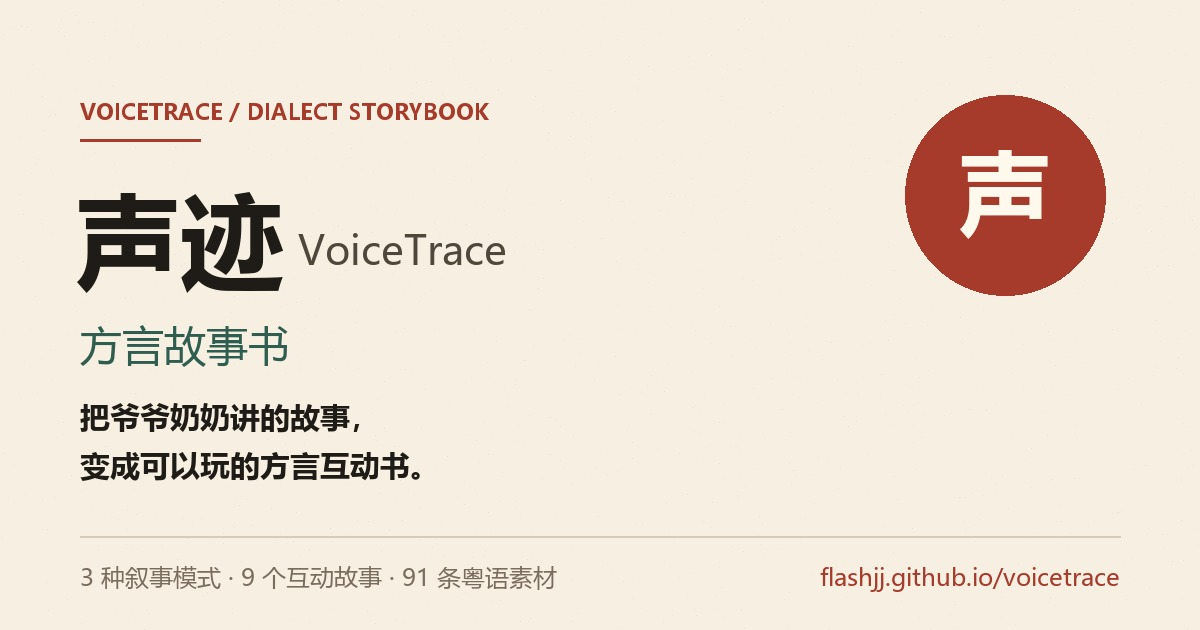
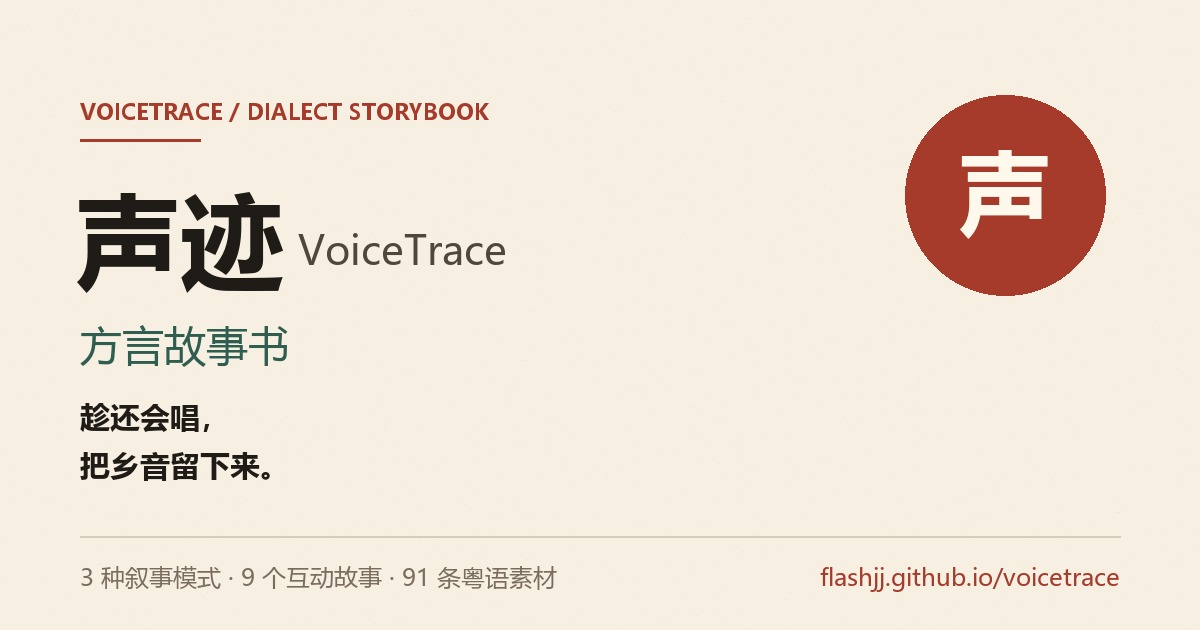
feat: sharpen hero copy and add animated voice waveform
- Replace the hero headline with a more urgent line about keeping the
  local voice while elders can still sing
- Add a looping waveform card that lights up the Cantonese rhyme
  character by character, with a plain-Mandarin line
- Fix image height attribute overriding aspect-ratio on the hero

Changed region(s): [[0.0617, 0.6333, 0.3392, 0.7841]]

diff --git a/web/components/VoiceMoment.jsx b/web/components/VoiceMoment.jsx
@@ -1,0 +1,87 @@
+"use client";
+
+import { useEffect, useState } from "react";
+
+const LINE = "月光光，照地堂。年卅晚，摘槟榔。";
+const MANDARIN = "月光洒在天井里，除夕夜摘槟榔。";
+
+const CHARS = Array.from(LINE);
+
+// 固定波形，避免服务端与客户端渲染不一致
+const BARS = Array.from({ length: 56 }, (_, index) => {
+  const value =
+    Math.sin(index * 0.72) * 0.42 +
+    Math.sin(index * 0.21) * 0.3 +
+    Math.sin(index * 1.7) * 0.12 +
+    0.58;
+  return Math.round(Math.min(1, Math.max(0.16, value)) * 100);
+});
+
+export default function VoiceMoment() {
+  const [reduceMotion, setReduceMotion] = useState(false);
+  const [activeIndex, setActiveIndex] = useState(-1);
+
+  useEffect(() => {
+    const query = window.matchMedia("(prefers-reduced-motion: reduce)");
+    const apply = () => setReduceMotion(query.matches);
+    apply();
+    query.addEventListener("change", apply);
+    return () => query.removeEventListener("change", apply);
+  }, []);
+
+  useEffect(() => {
+    if (reduceMotion) {
+      setActiveIndex(CHARS.length - 1);
+      return undefined;
+    }
+
+    let timer;
+    let step = -1;
+
+    const tick = () => {
+      step += 1;
+      if (step >= CHARS.length) {
+        step = -1;
+        setActiveIndex(-1);
+        timer = window.setTimeout(tick, 1100);
+        return;
+      }
+      setActiveIndex(step);
+      timer = window.setTimeout(tick, 240);
+    };
+
+    timer = window.setTimeout(tick, 500);
+    return () => window.clearTimeout(timer);
+  }, [reduceMotion]);
+
+  const progress = (activeIndex + 1) / CHARS.length;
+
+  return (
+    <div className="voice-moment">
+      <div className="voice-moment-head">
+        <span>粤语 · 西关</span>
+        <span className="voice-moment-note">语音示例</span>
+      </div>
+      <p className="voice-moment-yue" aria-label={`粤语童谣：${LINE}`}>
+        {CHARS.map((char, index) => (
+          <span
+            key={`${char}-${index}`}
+            className={index <= activeIndex ? "is-lit" : ""}
+          >
+            {char}
+          </span>
+        ))}
+      </p>
+      <p className="voice-moment-zh">{MANDARIN}</p>
+      <div className="voice-bars" aria-hidden="true">
+        {BARS.map((height, index) => (
+          <span
+            key={index}
+            className={index / BARS.length < progress ? "is-lit" : ""}
+            style={{ height: `${height}%` }}
+          />
+        ))}
+      </div>
+    </div>
+  );
+}

diff --git a/web/app/globals.css b/web/app/globals.css
@@ -409,6 +409,7 @@ button {
 
 .hero-image {
   width: 100%;
+  height: auto;
   aspect-ratio: 4 / 5;
   object-fit: cover;
   border-radius: 220px 220px var(--radius) var(--radius);
@@ -436,6 +437,80 @@ button {
   letter-spacing: 0.06em;
   color: var(--ink);
   margin-bottom: 2px;
+}
+
+.voice-moment {
+  position: absolute;
+  left: -16px;
+  bottom: 24px;
+  width: min(330px, calc(100% - 32px));
+  padding: 13px 16px 12px;
+  border: 1px solid var(--line);
+  background: rgba(251, 247, 238, 0.96);
+  box-shadow: 0 18px 40px rgba(54, 38, 22, 0.16);
+  backdrop-filter: blur(6px);
+}
+
+.voice-moment-head {
+  display: flex;
+  align-items: center;
+  justify-content: space-between;
+  gap: 8px;
+  margin-bottom: 8px;
+  color: var(--ink-muted);
+  font-size: 11px;
+  letter-spacing: 0.1em;
+}
+
+.voice-moment-note {
+  padding: 1px 8px;
+  border: 1px solid var(--line);
+  border-radius: 999px;
+  font-size: 10px;
+  letter-spacing: 0.04em;
+}
+
+.voice-moment-yue {
+  margin: 0;
+  font-family: var(--serif);
+  font-size: 17px;
+  line-height: 1.75;
+  letter-spacing: 0.04em;
+  color: var(--ink-muted);
+}
+
+.voice-moment-yue span {
+  transition: color 0.24s ease;
+}
+
+.voice-moment-yue span.is-lit {
+  color: var(--cinnabar);
+}
+
+.voice-moment-zh {
+  margin: 3px 0 10px;
+  color: var(--ink-muted);
+  font-size: 12px;
+  line-height: 1.6;
+}
+
+.voice-bars {
+  display: flex;
+  align-items: flex-end;
+  gap: 2px;
+  height: 34px;
+}
+
+.voice-bars span {
+  flex: 1;
+  min-width: 1px;
+  background: rgba(47, 93, 80, 0.2);
+  border-radius: 1px;
+  transition: background 0.24s ease;
+}
+
+.voice-bars span.is-lit {
+  background: var(--cinnabar);
 }
 
 .seal {
@@ -1588,7 +1663,11 @@ button {
   }
 
   .hero {
-    padding: 40px 0 56px;
+    padding: 24px 0 48px;
+  }
+
+  .hero-image {
+    aspect-ratio: 1 / 1;
   }
 
   .hero-title {
@@ -1597,12 +1676,41 @@ button {
 
   .hero-lede {
     font-size: 17px;
+    margin-bottom: 22px;
   }
 
   .hero-caption {
     left: -6px;
     bottom: 14px;
     padding: 10px 14px;
+  }
+
+  .voice-moment {
+    left: 0;
+    right: 0;
+    bottom: 12px;
+    width: auto;
+    margin: 0 12px;
+    padding: 9px 12px 8px;
+    box-shadow: 0 12px 28px rgba(54, 38, 22, 0.14);
+  }
+
+  .voice-moment-head {
+    margin-bottom: 5px;
+  }
+
+  .voice-moment-yue {
+    font-size: 14px;
+    line-height: 1.6;
+  }
+
+  .voice-moment-zh {
+    margin: 2px 0 6px;
+    font-size: 11px;
+  }
+
+  .voice-bars {
+    height: 20px;
   }
 
   .seal {

diff --git a/web/app/page.js b/web/app/page.js
@@ -1,6 +1,7 @@
 import Link from "next/link";
 import { featuredStories, stories, storyModes, heroImage, whyImage } from "../lib/stories";
 import StoryCard from "../components/StoryCard";
+import VoiceMoment from "../components/VoiceMoment";
 
 export default function HomePage() {
   return (
@@ -9,13 +10,14 @@ export default function HomePage() {
         <div className="hero-copy">
           <span className="eyebrow fade-in">方言故事书 · 第一季</span>
           <h1 className="hero-title fade-in-delay">
-            把阿婆讲的故事，
+            趁还会唱，
             <br />
-            留在<em>声音</em>里。
+            把乡音<em>留下来</em>。
           </h1>
           <p className="hero-lede fade-in-delay-2">
-            声迹把一段方言录音，变成一本可以点、可以听、可以分享的互动故事书。
-            原声是主角，AI 只负责让你听懂它。
+            很多家庭都有一把这样的声音：会唱童谣，会讲旧事，却只响在饭桌上。
+            声迹把它做成可以点、可以听、可以分享的互动故事书——原声是主角，
+            AI 只负责让你听懂它。
           </p>
           <div className="hero-actions fade-in-delay-2">
             <Link className="btn btn-primary" href="/stories/moonlight">
@@ -38,10 +40,7 @@ export default function HomePage() {
             decoding="async"
           />
           <div className="seal">留住<br />把声</div>
-          <div className="hero-caption">
-            <strong>广州 · 西关</strong>
-            粤语 · 骑楼 · 一碗茶的时间
-          </div>
+          <VoiceMoment />
         </div>
       </section>
 

diff --git a/web/app/layout.js b/web/app/layout.js
@@ -4,7 +4,8 @@ import SiteFooter from "../components/SiteFooter";
 
 const siteUrl = process.env.NEXT_PUBLIC_SITE_URL || "http://localhost:3000";
 const basePath = process.env.NEXT_PUBLIC_BASE_PATH || "";
-const description = "把爷爷奶奶讲的故事，变成可以玩的方言互动书。";
+const description =
+  "趁还会唱，把乡音留下来。声迹把粤语童谣、传说和家人的口述，做成可以点、可以听、可以分享的互动故事书。";
 
 export const metadata = {
   metadataBase: new URL(siteUrl),

diff --git a/README.md b/README.md
@@ -85,7 +85,7 @@ npm run dev
 
 ### 主攻：声迹 · 方言故事书（游戏娱乐，可兼报学习生活）
 
-- **一句话**：把爷爷奶奶讲的故事，变成可以玩的方言互动书；同一批素材，三种讲法。
+- **一句话**：趁还会唱，把乡音留下来；同一批素材，三种讲法。
 - **为什么选它**：你暂时没有 B 端用户资源，但可以用公开资料库 + 家人/朋友的方言录音，做出 9 个互动故事；情绪价值强，容易命中“乐在其中奖/造物故事奖”，也适合官方传播。
 - **三种模式**：正经模式（家庭/长辈）、鬼故事模式（年轻人/悬疑）、野史模式（年轻人/八卦），用同一批粤语素材覆盖不同受众，解决“只吸引正经人、受众单一”的问题。
 - **核心差异**：不是方言翻译器（瓯小鹿）、不是固定历史信件（乡音计划·读侨批）、不是官方大制作游戏（瓷都小匠），而是 **同一批地方记忆 × 三种语气 × 3 幕互动 + 语音示例 + 分享卡 + 声音地图**。
@@ -191,3 +191,4 @@ npm run dev
 | 2026-11-16 | 《月光光》《阿婆的艇仔粥》补真分支；全部图片补宽高与懒加载 | web/lib/stories.js、web/app/page.js、web/app/stories/page.js、web/components/StoryCard.jsx、web/components/StoryReader.jsx、web/components/StoryMap.jsx | 9 故事均为 5 幕 / 2 结局；首屏只加载 hero |
 | 2026-11-16 | 封面转 900px WebP（2.12MB → 0.52MB）；新增 robots.txt | web/lib/image.js、web/public/covers、web/app/robots.js | 9 张封面实际传输约 308KB；爬虫可读取 robots.txt |
 | 2026-11-16 | 资料库 91 条改为 12 条/页分页；新增参赛加码迭代计划 | web/components/CorpusLibrary.jsx、web/app/globals.css、docs/13 | 列表 DOM 从 91 条降到 12 条；7 天路线文档化 |
+| 2026-11-16 | 首页改文案并新增逐字点亮的声音波形；修复 `aspect-ratio` 被图片 height 属性压制 | web/app/page.js、web/components/VoiceMoment.jsx、web/app/globals.css、web/app/layout.js、web/public/og.jpg、docs/05、09、11、12 | 首屏出现记忆点；口号在各材料中统一 |

diff --git a/docs/05-8天执行计划.md b/docs/05-8天执行计划.md
@@ -65,7 +65,7 @@
 |---|---|
 | 中文名 | 声迹 |
 | 副标题 | 方言故事书 |
-| 一句话 | 把爷爷奶奶讲的故事，变成可以玩的方言互动书。 |
+| 一句话 | 趁还会唱，把乡音留下来。 |
 | 英文名 | VoiceTrail / Dialect Storybook |
 | 目标用户 | 离乡年轻人、家庭、学校/社区文化教育者 |
 | 核心价值 | 留住声音、听懂方言、分享故事 |
@@ -369,3 +369,4 @@ MapPin: id, story_id, lat, lng, place_name
 | 2026-11-16 | 《月光光》《阿婆的艇仔粥》第二幕选择改为通向两个不同第三幕与结局；全部图片补宽高、懒加载与异步解码 | 这两个首页主推故事只有 1 个结局，第二幕两个选项指向同一幕，选择不影响结果；图片缺少尺寸与懒加载 | 9 个故事统一为 5 幕 / 2 结局 / 无悬空引用；首屏仅 hero 立即加载，其余图片延迟加载 |
 | 2026-11-16 | 11 张封面转 900px WebP（2.12MB → 0.52MB）；新增 `app/robots.js` 生成 robots.txt | 移动端加载原图浪费带宽；站点缺少爬虫声明 | 9 张封面实际传输约 308KB；`/voicetrace/robots.txt` 可访问 |
 | 2026-11-16 | 资料库 91 条改为 12 条/页分页；新增 `docs/13` 参赛加码迭代计划 | 一次渲染 91 条对移动端偏重；需要判断 7 天内如何加码 | 列表每次只渲染 12 条；明确“AI 可体验优先于多方言”的路线 |
+| 2026-11-16 | 首页主文案改为“趁还会唱，把乡音留下来。”；新增逐字点亮的声音波形示意；修复图片 `height` 属性压住 `aspect-ratio` 的问题 | 原标题缺少“失去感”，首屏没有记忆点；首页主视觉实际高度被 HTML 属性固定 | 手机首屏可完整看到波形卡片；各页面口号统一 |

diff --git a/docs/09-报名帖草稿.md b/docs/09-报名帖草稿.md
@@ -7,7 +7,7 @@
 
 ## 1. 标题备选
 
-1. **声迹 · 方言故事书｜把阿婆讲的故事，变成可以玩的方言互动书**
+1. **声迹 · 方言故事书｜趁还会唱，把乡音留下来**
 2. **同一个广州，三种讲法：正经、鬼故事、野史**
 3. **我用 TRAE 做了个“方言故事书”，想留住外婆的声音**
 

diff --git a/docs/12-路演宣讲材料.md b/docs/12-路演宣讲材料.md
@@ -33,7 +33,7 @@
 **屏显文案**
 
 > 声迹 · 方言故事书<br>
-> 把爷爷奶奶讲的故事，变成可以玩的方言互动书。<br>
+> 趁还会唱，把乡音留下来。<br>
 > 让方言不只被保存，还能被玩。
 
 页面底部放：在线体验地址、GitHub 地址、作品名 VoiceTrace。

diff --git a/docs/11-产品说明文档.md b/docs/11-产品说明文档.md
@@ -4,7 +4,7 @@
 > 产品状态：可体验的参赛原型<br>
 > 中文名：声迹 · 方言故事书<br>
 > 英文名：VoiceTrace<br>
-> 一句话：**把爷爷奶奶讲的故事，变成可以玩的方言互动书。**
+> 一句话：**趁还会唱，把乡音留下来。**
 
 ## 1. 产品入口
 

diff --git a/web/README.md b/web/README.md
@@ -2,7 +2,7 @@
 
 > English name: VoiceTrace  
 > TRAE 好应用大赏赛参赛原型  
-> 一句话：把爷爷奶奶讲的故事，变成可以玩的方言互动书。
+> 一句话：趁还会唱，把乡音留下来。
 
 ## 运行
 
